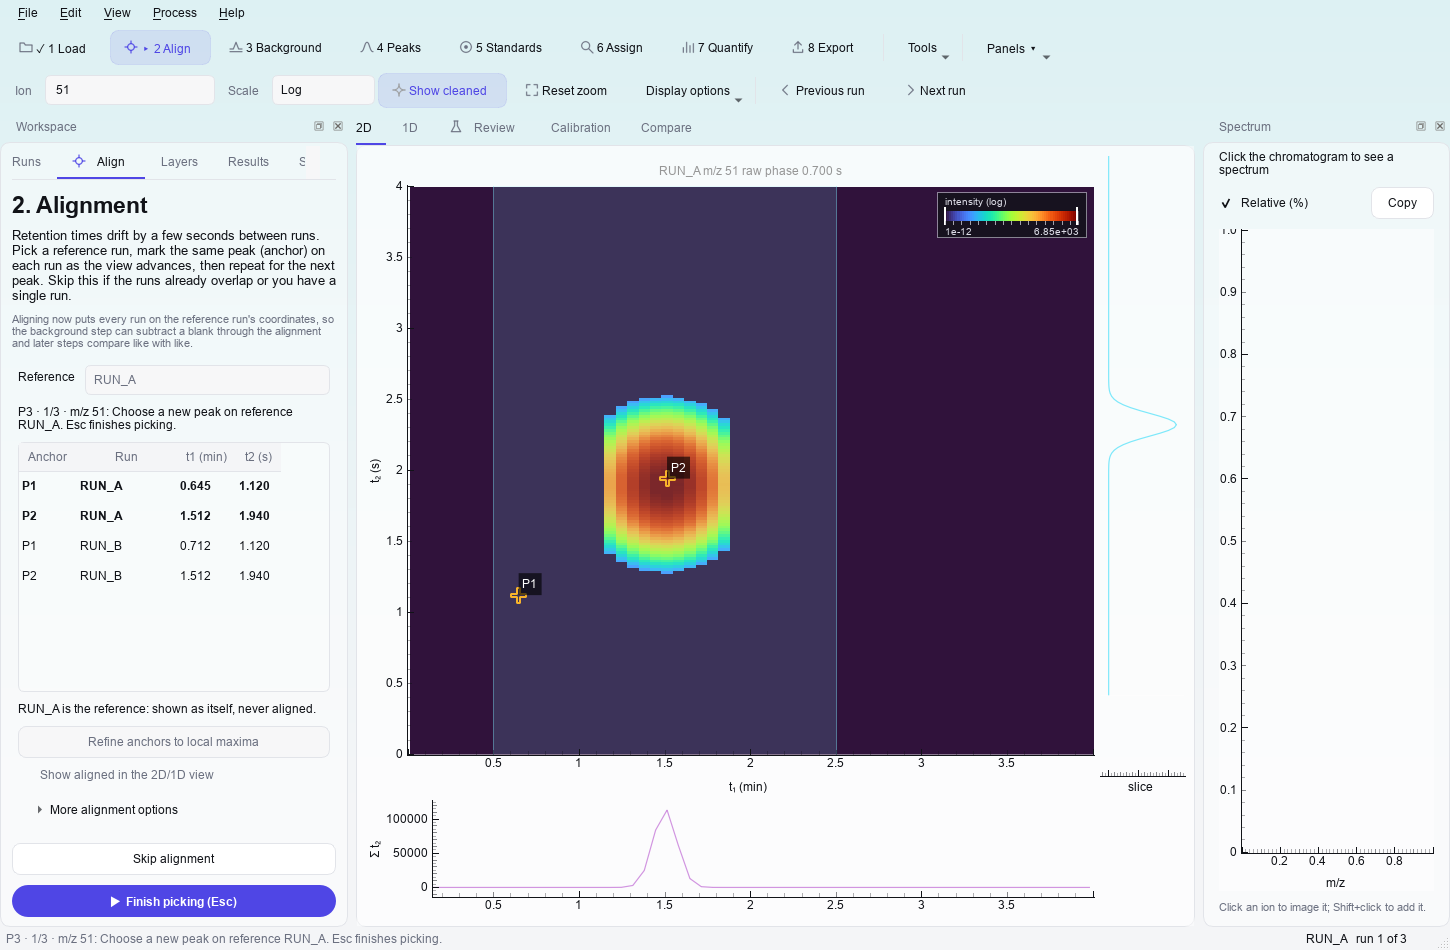
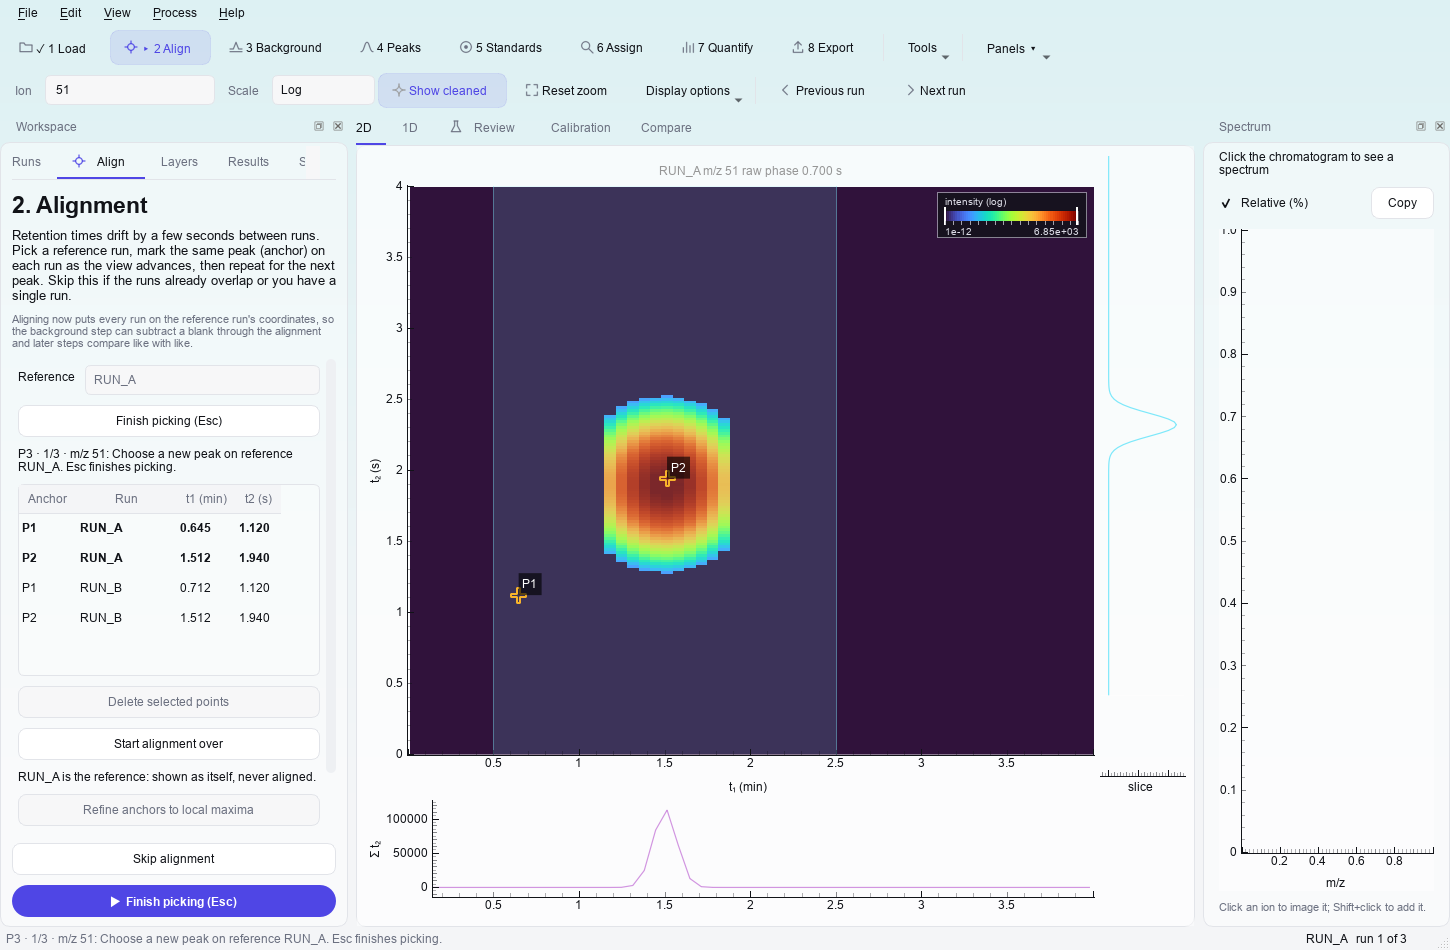
Expose alignment point editing and an undoable restart

Changed region(s): [[0.0, 0.4274, 0.1862, 0.6411], [0.0, 0.7326, 0.2172, 0.8547], [0.0, 0.58, 0.031, 0.6105]]

diff --git a/src/pygcgc/gui/mainwindow.py b/src/pygcgc/gui/mainwindow.py
@@ -113,6 +113,7 @@ class MainWindow(QtWidgets.QMainWindow):
         self._anchor_stage: str | None = None      # None, "ref", "run"
         self._anchor_pending: dict = {}
         self._anchor_switching = False
+        self._anchor_recording = False
         self.blobs = self.project.blobs
         self._blob_add_pending = False
         self.hydrocarbons = self.project.hydrocarbons
@@ -192,7 +193,7 @@ class MainWindow(QtWidgets.QMainWindow):
         # replace the last, with a single Go button underneath (see gui/workflow.py).
         # The old panels keep their own primary buttons but hide them; Go does that job.
         for w in (self.bg_panel.apply_all_btn, self.sil_panel.apply_btn, self.blobs_panel.find_btn,
-                  self.hydro_panel.find_btn, self.align_panel.add_btn, self.fold_panel.fix_btn,
+                  self.hydro_panel.find_btn, self.fold_panel.fix_btn,
                   self.istd_panel.find_btn):
             w.setVisible(False)
         self.quant_step = QuantStepPanel()
@@ -940,7 +941,8 @@ class MainWindow(QtWidgets.QMainWindow):
         self.align_panel.skipAnchorRequested.connect(self.skip_anchor_run)
         self.align_panel.refineRequested.connect(self.refine_anchors)
         self.align.refinementRunning.connect(lambda _on: self.align_panel.refresh())
-        self.align_panel.removeAnchorRequested.connect(self.remove_anchor)
+        self.align_panel.removeAnchorRequested.connect(self.remove_alignment_points)
+        self.align_panel.restartRequested.connect(self.restart_alignment)
         self.align_panel.clearRunRequested.connect(self.clear_run_anchors)
         self.align_panel.kindChanged.connect(self.set_align_kind)
         self.align_panel.propagateRequested.connect(self.propagate_anchors)
@@ -2185,7 +2187,11 @@ class MainWindow(QtWidgets.QMainWindow):
         p["ion"] = self._current_single_ion()
         p["ref_t1"], p["ref_t2"] = t1, t2
         before = self.align.snapshot()
-        self.align.add_anchor(self.align.reference, p["name"], t1, t2, t1, t2, p["ion"])
+        self._anchor_recording = True
+        try:
+            self.align.add_anchor(self.align.reference, p["name"], t1, t2, t1, t2, p["ion"])
+        finally:
+            self._anchor_recording = False
         self.undo.push(EditAlignment(self.align, before, self.align.snapshot(),
                                      f"Record reference anchor {p['name']}"))
         self._anchor_stage = "run"
@@ -2236,14 +2242,40 @@ class MainWindow(QtWidgets.QMainWindow):
         if self.index < 0 and run is None:
             return
         run = run or self.project.entries[self.index].name
+        self.remove_alignment_points([(name, run)])
+
+    def remove_alignment_points(self, selected):
         if self._anchor_stage is not None:
             self.cancel_pick()
         before = self.align.snapshot()
         # A reference point defines the coordinate shared by all matching rows.
-        for target in list(self.align.points) if run == self.align.reference else [run]:
-            self.align.remove_anchor(target, name)
-        self.undo.push(EditAlignment(self.align, before, self.align.snapshot(),
-                                     f"📍 Remove anchor {name} from {run}"))
+        points = {r: list(pts) for r, pts in before["points"].items()}
+        for name, run in selected:
+            for target in list(points) if run == self.align.reference else [run]:
+                points[target] = [p for p in points.get(target, []) if p.name != name]
+        after = dict(before, points={r: pts for r, pts in points.items() if pts})
+        if before != after:
+            self.align.restore(after)
+            self.undo.push(EditAlignment(self.align, before, after, "Delete selected alignment points"))
+
+    def restart_alignment(self):
+        if self.align.refining:
+            return
+        if self._anchor_stage is not None:
+            self.cancel_pick()
+        for job in list(self.jobs.jobs.values()):
+            if "Finding anchors:" in job.name:
+                self.jobs.cancel(job.id)
+        before = self.align.snapshot()
+        after = dict(reference=before["reference"], kind={}, points={})
+        self.act_aligned.setChecked(False)
+        self.align.restore(after)
+        self.workflow.clear_done("align")
+        if self.workflow.banner.property("for") == "align":
+            self.workflow.banner.hide()
+        if before != after:
+            self.undo.push(EditAlignment(self.align, before, after, "Start alignment over"))
+        self.start_add_anchor()
 
     def clear_run_anchors(self):
         if self.index < 0:
@@ -2296,6 +2328,8 @@ class MainWindow(QtWidgets.QMainWindow):
         if self._anchor_stage is not None:
             p = self._anchor_pending
             if (p.get("reference") != self.align.reference
+                    or (self._anchor_stage == "ref" and not self._anchor_recording and any(
+                        point.name == p["name"] for point in self.align.points.get(self.align.reference, [])))
                     or (self._anchor_stage == "run" and not any(
                         point.name == p["name"] for point in self.align.points.get(self.align.reference, [])))):
                 self.cancel_pick()

diff --git a/src/pygcgc/gui/panels/align.py b/src/pygcgc/gui/panels/align.py
@@ -16,7 +16,8 @@ KIND_LABELS = [("Auto", "auto"), ("Shift", "shift"), ("Affine", "affine"), ("Smo
 class AlignPanel(QtWidgets.QWidget):
     referenceChanged = QtCore.Signal(str)              # run name, or "" for none
     addAnchorRequested = QtCore.Signal()
-    removeAnchorRequested = QtCore.Signal(str, str)     # anchor name, run
+    removeAnchorRequested = QtCore.Signal(object)     # selected (anchor name, run) pairs
+    restartRequested = QtCore.Signal()
     skipAnchorRequested = QtCore.Signal()
     refineRequested = QtCore.Signal()
     clearRunRequested = QtCore.Signal()
@@ -35,7 +36,7 @@ class AlignPanel(QtWidgets.QWidget):
         self.reference.setToolTip("Every other run is aligned to this one")
         self.reference.currentIndexChanged.connect(self._reference_changed)
 
-        self.add_btn = QtWidgets.QPushButton("Pick anchors across runs (A)")
+        self.add_btn = QtWidgets.QPushButton("Add points (A)")
         self.add_btn.setToolTip("Click on the reference, then every loaded run; repeat for the next anchor")
         self.add_btn.clicked.connect(self.addAnchorRequested)
         self.skip_btn = QtWidgets.QPushButton("Skip peak in this run")
@@ -80,9 +81,13 @@ class AlignPanel(QtWidgets.QWidget):
         self.table.setColumnWidth(1, 100)
         for column in (2, 3, 6):
             self.table.setColumnHidden(column, True)
-        remove_row = QtWidgets.QPushButton("Remove selected anchor")
+        remove_row = self.delete_btn = QtWidgets.QPushButton("Delete selected points")
         remove_row.setToolTip("Remove the selected table row. A reference row removes its matching points on every run.")
         remove_row.clicked.connect(self._remove_selected)
+        self.table.itemSelectionChanged.connect(self._selection_changed)
+        self.restart_btn = QtWidgets.QPushButton("Start alignment over")
+        self.restart_btn.setToolTip("Clear all alignment points and transform overrides, keep the reference, and begin again at P1. Undo restores the previous alignment.")
+        self.restart_btn.clicked.connect(self.restartRequested)
 
         self.summary = QtWidgets.QLabel("No reference set yet")
         self.summary.setWordWrap(True)
@@ -113,6 +118,8 @@ class AlignPanel(QtWidgets.QWidget):
         lay.addWidget(self.pick_status)
         lay.addWidget(self.skip_btn)
         lay.addWidget(self.table, 1)
+        lay.addWidget(self.delete_btn)
+        lay.addWidget(self.restart_btn)
         lay.addWidget(self.summary)
         lay.addWidget(self.refine_btn)
         lay.addWidget(self.show_aligned)
@@ -130,7 +137,6 @@ class AlignPanel(QtWidgets.QWidget):
         limits.addRow("Transform", self.kind)
         details.addLayout(limits)
         details.addWidget(self.propagate_btn)
-        details.addWidget(remove_row)
         details.addWidget(self.clear_btn)
         details.addWidget(self.resid_plot)
         self.details.hide()
@@ -175,7 +181,7 @@ class AlignPanel(QtWidgets.QWidget):
     def set_picking(self, message: str = "", can_skip: bool = False) -> None:
         self._picking = bool(message)
         self.pick_status.setText(message or "Start picking to visit each chromatogram in turn. Esc finishes.")
-        self.add_btn.setText("Finish picking (Esc)" if message else "Pick anchors across runs (A)")
+        self.add_btn.setText("Finish picking (Esc)" if message else "Add points (A)")
         self.skip_btn.setVisible(bool(message) and can_skip)
         self.refresh()
 
@@ -185,6 +191,8 @@ class AlignPanel(QtWidgets.QWidget):
             return
         is_ref = self.current_run is not None and self.current_run == a.reference
         self.add_btn.setEnabled(self.current_run is not None and not a.refining)
+        self.restart_btn.setEnabled(bool(any(a.points.values()) or a.kind or self._picking) and not a.refining)
+        self._selection_changed()
         self.reference.setEnabled(not self._picking and not a.refining)
         self.refine_btn.setEnabled(bool(a.reference and any(a.points.values())) and not a.refining and not self._picking)
         self.refine_btn.setText("Refining anchors..." if a.refining else "Refine anchors to local maxima")
@@ -243,7 +251,10 @@ class AlignPanel(QtWidgets.QWidget):
 
     def _remove_selected(self) -> None:
         rows = sorted({i.row() for i in self.table.selectedIndexes()})
-        if rows and self.current_run:
-            name = self.table.item(rows[0], 0).text()
-            run = self.table.item(rows[0], 0).data(QtCore.Qt.ItemDataRole.UserRole)
-            self.removeAnchorRequested.emit(name, run)
+        selected = [(self.table.item(row, 0).text(),
+                     self.table.item(row, 0).data(QtCore.Qt.ItemDataRole.UserRole)) for row in rows]
+        if selected:
+            self.removeAnchorRequested.emit(selected)
+
+    def _selection_changed(self) -> None:
+        self.delete_btn.setEnabled(bool(self.table.selectedIndexes()) and not (self.align and self.align.refining))

diff --git a/tests/test_anchor_workflow.py b/tests/test_anchor_workflow.py
@@ -55,7 +55,7 @@ def test_two_anchor_rounds_start_on_first_run_and_keep_a_shared_table(qtbot, win
     assert w.align.reference is None
     w.go("align")
     assert w.align.reference == "RUN_A" and w._anchor_stage == "ref"
-    assert w.align_panel.add_btn.isHidden()  # one primary action in the real workflow
+    assert w.align_panel.add_btn.isVisibleTo(w.workflow)
     assert "Finish picking" in w.workflow.go_btn.text()
     for anchor in ("P1", "P2"):
         assert w._anchor_pending["name"] == anchor
@@ -182,6 +182,40 @@ def seed_offset_clicks(w, *, reference_row=True):
     target = positions["RUN_B"]
     w.align.add_anchor("RUN_B", "P1", ref[0], ref[1]+.1, target[0], target[1]-.1, 50)
     return positions
+
+
+def test_visible_add_delete_and_restart_controls_are_undoable(qtbot, window):
+    from PySide6 import QtCore
+    w = window
+    w.workflow.show_step("align")
+    panel = w.align_panel
+    assert panel.add_btn.isVisibleTo(w.workflow) and panel.delete_btn.isVisibleTo(w.workflow)
+    assert panel.restart_btn.isVisibleTo(w.workflow) and not panel.delete_btn.isEnabled()
+    qtbot.mouseClick(panel.add_btn, QtCore.Qt.MouseButton.LeftButton)
+    click_peak(qtbot, w)
+    click_peak(qtbot, w)
+    w.cancel_pick()
+    before = w.align.snapshot()
+    panel.table.selectAll()
+    count = w.undo.count()
+    qtbot.mouseClick(panel.delete_btn, QtCore.Qt.MouseButton.LeftButton)
+    assert not w.align.points and w.undo.count() == count+1
+    w.undo.undo()
+    assert w.align.snapshot() == before
+    w.align.set_kind("RUN_B", "shift")
+    before = w.align.snapshot()
+    w.workflow.mark_done("align", "Old completion")
+    count = w.undo.index()
+    qtbot.mouseClick(panel.restart_btn, QtCore.Qt.MouseButton.LeftButton)
+    assert not w.align.points and not w.align.kind and not w.align.transforms
+    assert w.align.reference == "RUN_A" and w._anchor_pending["name"] == "P1"
+    assert w._anchor_stage == "ref" and w.index == w.project.index_of("RUN_A")
+    assert not w.workflow.is_done("align") and not w.workflow.banner.isVisible()
+    assert w.undo.index() == count+1
+    w.undo.undo()
+    assert w.align.snapshot() == before and w._anchor_stage is None
+    w.undo.redo()
+    assert not w.align.points and not w.align.kind
 
 
 @pytest.mark.parametrize("reference_row", [True, False])

diff --git a/docs/user-guide.md b/docs/user-guide.md
@@ -346,6 +346,14 @@ Retention drifts a little from run to run: a few seconds in t1, a few hundredths
 
 After the last run, the view returns to the reference and prompts for a new peak, P2. Repeat with points spread across retention time. **Skip peak in this run** advances past a missing peak without inventing a match. **Finish picking**, **A** or **Esc** ends collection and keeps the points already recorded. Manually switching runs, leaving Align or changing the input data also finishes collection. Picking uses the run's own coordinates, so aligned display is off during collection.
 
+**Add, delete or start again.** The visible **Add points (A)** button starts the same guided
+picker; while picking, it becomes **Finish picking (Esc)**. Select one or more table rows
+and press **Delete selected points** to remove them in a single undoable action. Deleting
+a reference row also deletes its matching points across the runs. **Start alignment over**
+clears all alignment points, transforms and transform overrides, keeps your chosen reference,
+and returns to it ready to pick P1 again. It also clears the old completion banner.
+**Ctrl+Z** restores the previous alignment. These controls are outside More alignment options.
+
 A transform is fitted as points arrive:
 
 - **1 anchor:** a plain shift in t1 and t2.

diff --git a/docs/architecture.md b/docs/architecture.md
@@ -143,6 +143,11 @@ CLAUDE.md, ROADMAP.md, CHANGELOG.md   agent notes, what is left, what changed
   target-only anchor pairs supply reference positions when explicit reference rows are absent.
   Search limits, automatic propagation and transform diagnostics sit in a collapsible section;
   the panel scrolls, and the primary action changes its label while picking.
+  Add points, multi-row deletion and Start alignment over remain visible outside the
+  collapsible options. Deletion applies one snapshot edit; reference-row deletion removes
+  matching pairs. Restart clears points and transform overrides, keeps the reference,
+  clears completion, cancels pending propagation and resumes at P1. Undo restores the old
+  alignment and stops the new picking session before it can overwrite restored points.
 
 - **`pygcgc.core` never imports Qt.** All science goes there, is tested there, and is callable from scripts and the command line. The GUI only calls into it.
 - **The GUI thread only draws and handles input.** Anything slow is a job: `gui/jobs.JobManager.submit(name, fn(token, progress), on_done, on_error, latest_key=None, quiet=False)`.

diff --git a/CHANGELOG.md b/CHANGELOG.md
@@ -6,6 +6,15 @@ not checked). This was section 2 of the old docs/history/handover-2026-09-21.md.
 
 ## State of play
 
+**Visible alignment point controls, 2026-10-19.**
+Added visible Add points, Delete selected points and Start alignment over buttons.
+Deletion supports multiple table rows in one undoable edit. Restart keeps the chosen
+reference, clears all points and transform overrides, cancels pending propagation and
+returns to P1. Undo restores the previous alignment and stops the new picking session.
+These controls sit outside the advanced options; docs and the alignment screenshot were updated.
+All 40 affected anchor, alignment and workflow checks passed, including mouse-driven
+multi-row deletion, restart and undo/redo restoration.
+
 **Guided anchor collection and bounded refinement, 2026-10-19.**
 Align now records a reference click immediately, visits every other loaded chromatogram
 for the same named anchor, then returns to the reference and prompts for the next point.

diff --git a/docs/validation/anchor-workflow-2026-10-19.md b/docs/validation/anchor-workflow-2026-10-19.md
@@ -32,6 +32,12 @@ clicks on the plot, Skip, Finish and Refine controls, plus compact-table options
 Logs and JUnit reports are in `real_data/anchor_workflow/full_suite.*`,
 `final_gui_checks.xml` and `final_anchor_checks.xml`.
 
+The subsequent visible point-controls change passed **40 affected GUI/workflow
+checks**, recorded in `real_data/anchor_workflow/point_controls.xml`. Mouse-driven
+checks cover Add points, multi-row deletion as one undo action, restarting at P1
+while retaining the reference, clearing transform overrides and completion, and
+undo/redo restoring the old alignment without leaving a conflicting picker active.
+
 - Core regressions check search bounds, ties, repeated refinement, unsupported
   pixels, wrap continuity, acquisition edges and invalid limits.
 - GUI regressions follow two complete anchor rounds, automatic first-reference

diff --git a/examples/demo_data/README.md b/examples/demo_data/README.md
@@ -61,6 +61,9 @@ internal standards in `target_table.csv` as the runs load. Work along the number
    to adjust the clicks within ±1 modulation and ±0.150 s in t2. Search limits, transform
    settings and optional **Auto-find on all runs** are under **More alignment options**.
    The Compare tab (5) blinks, overlays or subtracts the runs.
+   **Add points** resumes collection; select table rows and use **Delete selected points**
+   to remove them. **Start alignment over** keeps the reference and restarts at P1; Ctrl+Z
+   restores the previous alignment.
 3. **🧹 Background.** Press ▶ Remove background. Type `73` in the Ion box, select the wood-smoke
    sample, zoom on 33 to 36 min and tick *Before / after split*: behenic acid stands out of the
    bleed once it is removed. Space toggles raw and cleaned; S/N shows signal-to-noise.

diff --git a/CLAUDE.md b/CLAUDE.md
@@ -68,6 +68,10 @@ defaults are ±1 modulation and ±0.150 s in t2. Wrapped rows come from adjacent
 updates each reference position once, and rejects results after input edits. Apply as one
 undoable edit. Main picking/refinement stay visible; search limits and transform diagnostics
 are under More alignment options. The panel scrolls rather than squeezing the anchor table.
+Add points, Delete selected points and Start alignment over are visible controls, explicitly
+requested by the user. Delete selected rows in one undo command; deleting a reference row
+removes its matching pairs. Restart retains the reference but clears points and kind overrides
+and resumes P1. Undo must stop that new picker before restored P1 can be overwritten.
 
 | | |
 |---|---|

diff --git a/README.md b/README.md
@@ -71,6 +71,9 @@ the clicks visible; skip missing peaks or finish with Esc. **Refine anchors to l
 then adjusts the saved points on their original ion or TIC, including the reference, in one
 undoable action. Search limits (default ±1 modulation and ±0.150 s in t2) and transform
 diagnostics are under **More alignment options**.
+Visible **Add points**, **Delete selected points** and **Start alignment over** buttons
+let you extend, edit or restart alignment. Deletion and restarting are undoable; restarting
+keeps the reference and returns to P1.
 
 **Peaks uses tilted Gaussian fitting by default**, including automatic selection of the number
 of overlapping components. Click **▶ How it works** in the Peaks panel or the manual refit
